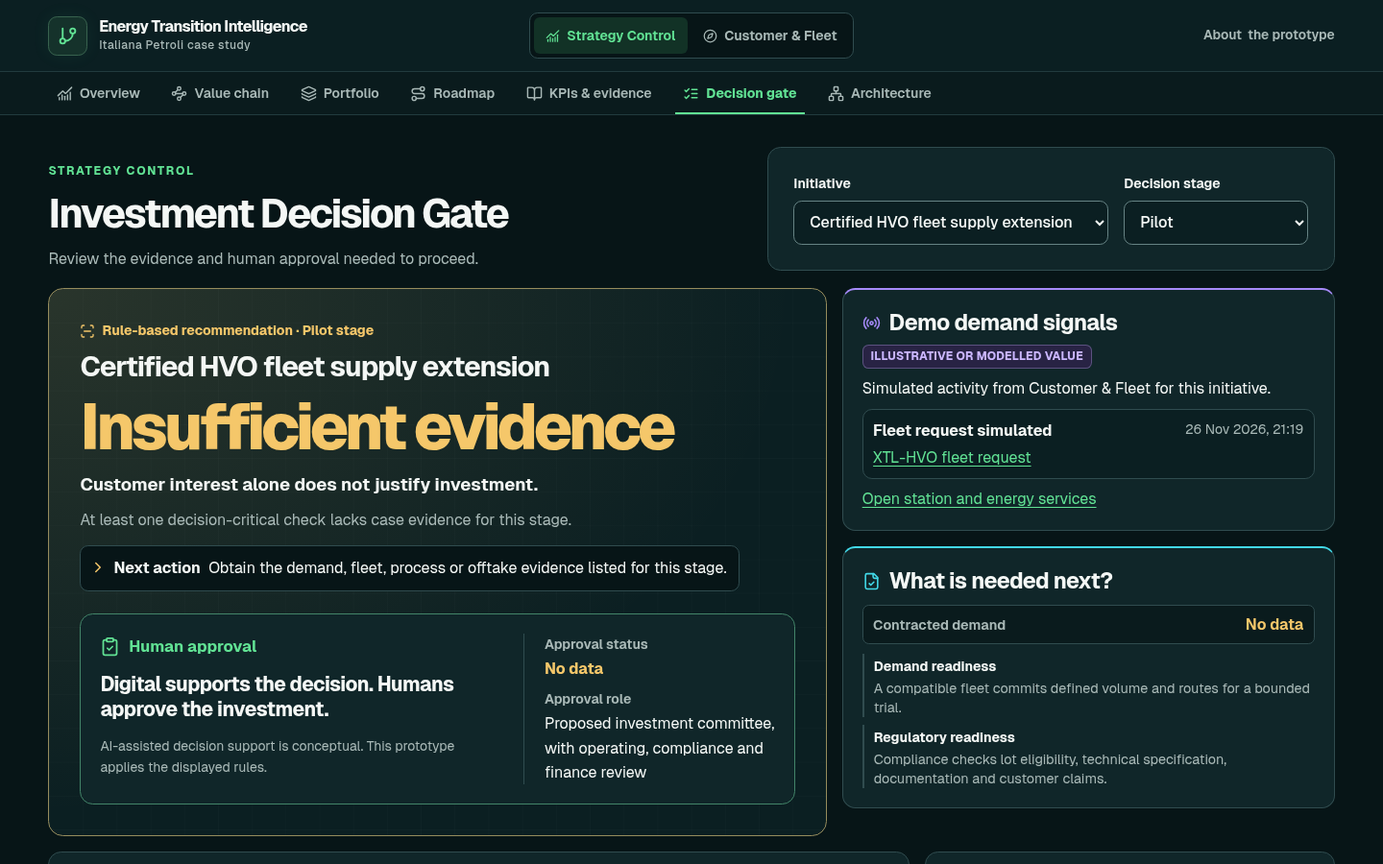
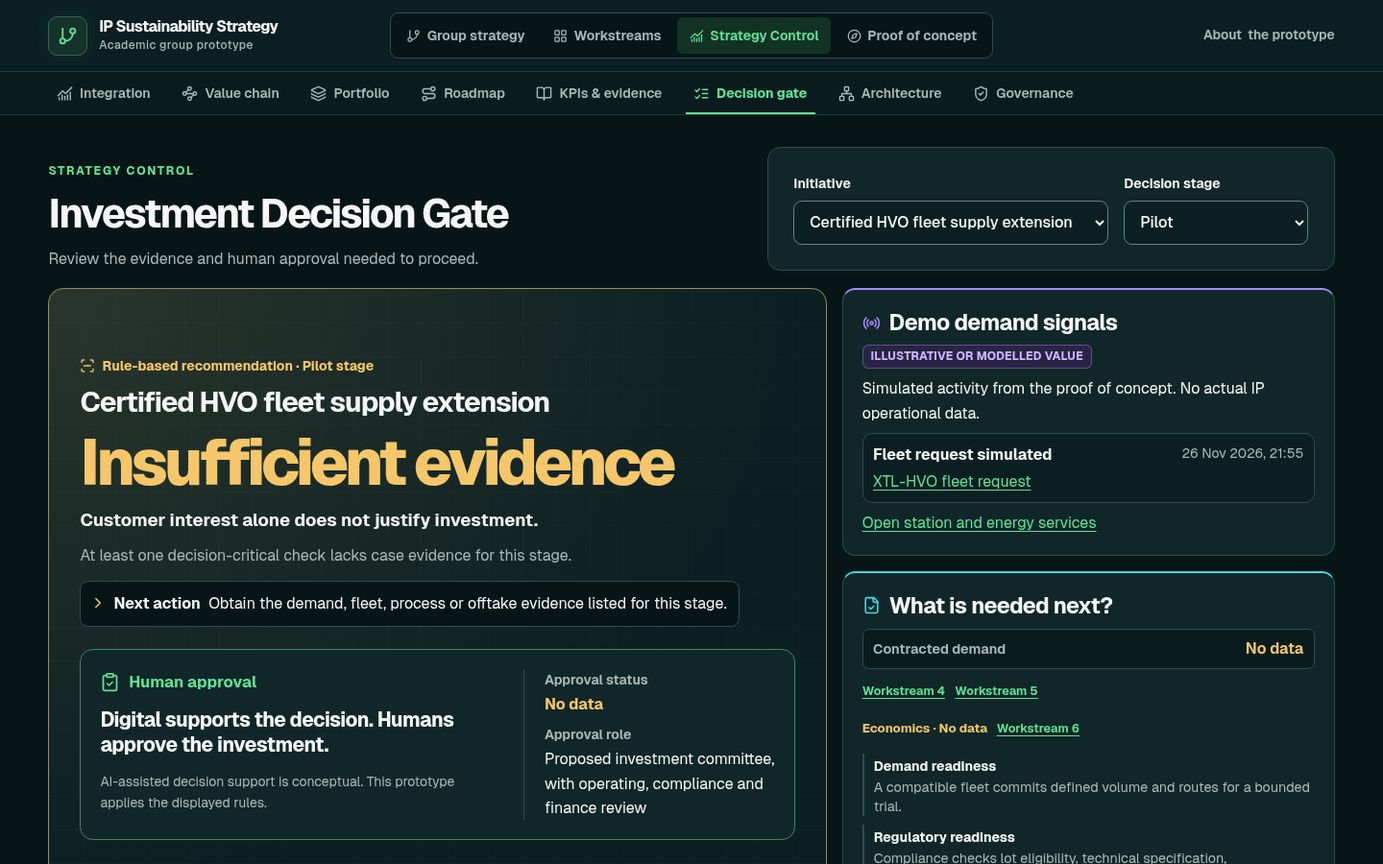
Document group readiness and showcase the deployed platform

diff --git a/README.md b/README.md
@@ -1,227 +1,149 @@
-# Energy Transition Intelligence
+# IP Long-Term Sustainability Strategy
 
-**Integrated Refining & Multi-Energy Mobility Strategy**
+**Refining × Distribution × Multi-Energy Mobility**
 
-[![LIVE DEMO](https://img.shields.io/badge/LIVE_DEMO-OPEN-176947?style=flat-square&logo=github&logoColor=white)](https://queenkm.github.io/ip-transition-strategy/)
-![REACT](https://img.shields.io/badge/REACT-19-17637A?style=flat-square&logo=react&logoColor=white)
-![TYPESCRIPT](https://img.shields.io/badge/TYPESCRIPT-5-3178C6?style=flat-square&logo=typescript&logoColor=white)
-![VITE](https://img.shields.io/badge/VITE-6-7963DA?style=flat-square&logo=vite&logoColor=white)
-[![GITHUB PAGES](https://img.shields.io/badge/GITHUB_PAGES-STATIC-293E40?style=flat-square&logo=githubpages&logoColor=white)](.github/workflows/deploy.yml)
-[![Pages deployment workflow status](https://github.com/QueenKM/ip-transition-strategy/actions/workflows/deploy.yml/badge.svg?branch=main)](https://github.com/QueenKM/ip-transition-strategy/actions/workflows/deploy.yml)
+Interactive Group Strategy & Decision-Support Prototype
 
-An independent university case study for Italiana Petroli. It makes the case for more efficient refining, selective station upgrades and capital decisions grounded in customer and operating evidence.
+[![Complete strategy home with refining, distribution, technology and roadmap views](docs/readme-hero.png)](https://queenkm.github.io/ip-transition-strategy/)
 
-**[→ Explore the Live Strategy Prototype](https://queenkm.github.io/ip-transition-strategy/#/strategy)**
+## Live demo
 
-[![Energy Transition Intelligence showcase banner](docs/readme-hero.png)](https://queenkm.github.io/ip-transition-strategy/#/strategy)
-
-### Recommended demo path
-
-1. Read the thesis and four pillars on the [Executive Strategy Dashboard](https://queenkm.github.io/ip-transition-strategy/#/strategy).
-2. Trace the sequence of pilots and investment conditions in the [Integrated Roadmap](https://queenkm.github.io/ip-transition-strategy/#/strategy/roadmap).
-3. Find **XTL-HVO fleet request** at the fictional corridor forecourt in [Station Explorer](https://queenkm.github.io/ip-transition-strategy/#/mobility/explore).
-4. Choose **Open fleet demo**, then **Simulate fleet request** and **View strategic impact** in the [Fleet Journey](https://queenkm.github.io/ip-transition-strategy/#/mobility/journey?service=corridor-demo-hvo).
-5. Find the demo demand signal and open the missing checks in the [Investment Decision Gate](https://queenkm.github.io/ip-transition-strategy/#/strategy/gate?initiative=road-hvo-pilot&stage=pilot).
-
-For the electricity pathway, see the [Integrated Value Chain](https://queenkm.github.io/ip-transition-strategy/#/strategy/value-chain) and try the [simulated EV reservation and payment](https://queenkm.github.io/ip-transition-strategy/#/mobility/journey?service=corridor-demo-ev).
+**[Explore the group strategy](https://queenkm.github.io/ip-transition-strategy/)** · [Team input readiness](https://queenkm.github.io/ip-transition-strategy/#/workstreams) · [GitHub Pages workflow](.github/workflows/deploy.yml)
 
 ## The challenge
 
-How could IP respond to regulation and changing transport demand while investing across refineries, stations and customer services? The university brief asks for a strategy that connects the two businesses and justifies technology, timing and investment choices. [Challenge brief and assessment criteria](https://queenkm.github.io/ip-transition-strategy/#/strategy/evidence?tab=evidence&focus=E01)
+Develop a long-term sustainability strategy for Italiana Petroli in Italy. The university brief asks the group to connect refining and distribution and explain technology choices, timing, demand and investment constraints.
 
-**Recommendation.** IP should improve refinery efficiency and qualify fuel supply for specific markets, add charging and other services where local infrastructure and demand support them, and use commercial and operating evidence from both pathways to guide the next investment.
-
-## Live Product
-
-**Strategy Control** covers the case, portfolio, roadmap, KPIs and investment review. **Customer & Fleet** lets a visitor explore eligible offers and simulate a service request. Both views link back to the same initiative and evidence records.
-
-[![Executive Strategy Dashboard showing four pillars, case evidence and the linked mobility view](docs/screenshots/dashboard.png)](https://queenkm.github.io/ip-transition-strategy/#/strategy)
-
-### Four connected contributions
-
-| Contribution | How the prototype demonstrates it |
-| --- | --- |
-| **Efficient refining and qualified product supply** | Connects site efficiency, feedstock qualification and product traceability to demand from compatible fleets and other fuel buyers. |
-| **Selective station transformation** | Compares forecourt and depot options using site rights, power connections, utilisation and service economics. |
-| **Customer and fleet services** | Demonstrates service discovery, XTL-HVO compatibility, a fleet request and an EV reservation and payment concept. |
-| **Evidence-led investment** | Links operational and commercial evidence to portfolio priorities and decisions across the 0–3, 3–7 and 7–15+ year horizons. |
-
-## Integrated value chain
-
-Certified fuel supply and grid-supplied charging follow different physical routes. Station and fleet services return demand and operating evidence to the same investment gate.
-
-[![Integrated Value Chain showing the liquid-fuel and electricity pathways](docs/screenshots/value-chain.png)](https://queenkm.github.io/ip-transition-strategy/#/strategy/value-chain)
-
-## Investment Decision Gate
-
-For the XTL-HVO pilot, the simulated request appears under **Demo demand signals**. The case recommendation remains **Insufficient evidence** while required inputs such as demand commitments, certified supply and economics are missing. The gate shows which checks drive the recommendation, who owns the follow-up and which human role can approve investment.
-
-[![Investment Decision Gate showing Insufficient evidence, human approval and the illustrative demand signal](docs/screenshots/decision-gate.png)](https://queenkm.github.io/ip-transition-strategy/#/strategy/gate?initiative=road-hvo-pilot&stage=pilot)
-
-**Customer signal ≠ Investment decision.** Progression depends on applicable fuel rules, committed fleet volumes, eligible batches, confirmed vehicle and site compatibility, viable delivered economics and human approval. Scale also requires measured pilot performance.
-
-## Product gallery
-
-<table>
-  <tr>
-    <td width="50%">
-      <a href="https://queenkm.github.io/ip-transition-strategy/#/strategy/portfolio"><img src="docs/screenshots/portfolio.png" alt="Technology Portfolio with qualitative priorities and evidence readiness"></a>
-      <strong>Technology Portfolio</strong><br>
-      Technology maturity, priorities and open dependencies.
-    </td>
-    <td width="50%">
-      <a href="https://queenkm.github.io/ip-transition-strategy/#/strategy/roadmap"><img src="docs/screenshots/roadmap.png" alt="Roadmap showing refining, distribution and digital work across three time horizons"></a>
-      <strong>Integrated Roadmap</strong><br>
-      Aligned horizons, investment conditions and review points.
-    </td>
-  </tr>
-  <tr>
-    <td width="50%">
-      <a href="https://queenkm.github.io/ip-transition-strategy/#/mobility/explore"><img src="docs/screenshots/station-explorer.png" alt="Station Explorer with fictional sites and energy-service status filters"></a>
-      <strong>Station Explorer</strong><br>
-      Fictional locations with carrier, audience and status filters.
-    </td>
-    <td width="50%">
-      <a href="https://queenkm.github.io/ip-transition-strategy/#/mobility/journey?service=corridor-demo-hvo"><img src="docs/screenshots/fleet-journey.png" alt="Fleet Journey with an illustrative XTL-HVO request and invoice preview"></a>
-      <strong>Fleet Journey</strong><br>
-      Vehicle fit, simulated request and a linked demand signal.
-    </td>
-  </tr>
-  <tr>
-    <td width="50%">
-      <a href="https://queenkm.github.io/ip-transition-strategy/#/strategy/evidence"><img src="docs/screenshots/evidence-dashboard.png" alt="KPI and Evidence Dashboard showing data boundaries, provenance and missing inputs"></a>
-      <strong>KPIs &amp; Evidence</strong><br>
-      Measurement scope, source records and the team input register.
-    </td>
-    <td width="50%">
-      <a href="https://queenkm.github.io/ip-transition-strategy/#/strategy/architecture"><img src="docs/screenshots/architecture.png" alt="Architecture and Data Flow showing six layers from physical energy to human governance"></a>
-      <strong>Architecture</strong><br>
-      Documented capabilities and proposed data connections.
-    </td>
-  </tr>
-</table>
-
-## How the platform works
+## Complete strategy
 
 ```mermaid
 flowchart TD
-    A["Regulation and demand"] --> B["Refining and qualified fuels"]
-    A --> C["Electricity and grid access"]
-    B --> D["Fuel logistics and eligible outlets"]
-    C --> E["Site and charging operations"]
-    D --> F["Customer and fleet services"]
-    E --> F
-    F --> G["Demand and operating evidence"]
-    G --> H["Investment gate and human approval"]
+  A["Context"] --> B["Refining"]
+  B --> C["Distribution"]
+  C --> D["Technology and economics"]
+  D --> E["Integrated strategy"]
+  E --> F["Adaptive roadmap"]
+  F --> G["Digital proof of concept"]
+  G --> H["Evidence-led decisions"]
 ```
 
-## Evidence and accountability
+The platform gives all eight workstreams a place in the group solution. Workstream 7 links upstream analyses to strategic pillars, an adaptive roadmap, governance, measurement and a digital proof of concept. Workstream 8 holds the group-approved recommendation and presentation storyline once validated.
 
-![Verified fact](https://img.shields.io/badge/VERIFIED_FACT-176947?style=flat-square)
-![Team input](https://img.shields.io/badge/TEAM_INPUT-17637A?style=flat-square)
-![Strategic recommendation](https://img.shields.io/badge/STRATEGIC_RECOMMENDATION-2B5574?style=flat-square)
-![Assumption](https://img.shields.io/badge/ASSUMPTION-775222?style=flat-square)
-![Illustrative or modelled value](https://img.shields.io/badge/ILLUSTRATIVE_OR_MODELLED_VALUE-584589?style=flat-square)
-![No data](https://img.shields.io/badge/NO_DATA-42595A?style=flat-square)
+## Workstreams 1–8
 
-| Evidence class | Meaning |
+| Workstream | Scope | Input status |
+| --- | --- | --- |
+| [W1](https://queenkm.github.io/ip-transition-strategy/#/workstreams/w1) | Regulation, Market & Demand | Awaiting team input |
+| [W2](https://queenkm.github.io/ip-transition-strategy/#/workstreams/w2) | Refining Current State & Benchmarking | Awaiting team input |
+| [W3](https://queenkm.github.io/ip-transition-strategy/#/workstreams/w3) | Refining Solutions | Awaiting team input |
+| [W4](https://queenkm.github.io/ip-transition-strategy/#/workstreams/w4) | Distribution Current State & Benchmarking | Awaiting team input |
+| [W5](https://queenkm.github.io/ip-transition-strategy/#/workstreams/w5) | Distribution Solutions | Awaiting team input |
+| [W6](https://queenkm.github.io/ip-transition-strategy/#/workstreams/w6) | Economics, Technology Maturity & Risks | Awaiting team input |
+| [W7](https://queenkm.github.io/ip-transition-strategy/#/workstreams/w7) | Integrated Strategy, Roadmap & Digital Decision Support | In development / available |
+| [W8](https://queenkm.github.io/ip-transition-strategy/#/workstreams/w8) | Executive Summary & Presentation | Awaiting team input |
+
+## Strategy integration status
+
+Each area identifies what is available, who must supply the next input and which decisions depend on it. Final team conclusions appear after validation. Unavailable values display **No data**, and public evidence has its own scope and provenance. [Submission and validation guide](docs/TEAM_INPUT_GUIDE.md)
+
+## Context
+
+Public and lecture references describe the regulation, market and competition relevant to the case. W1 is responsible for the applicable duties, demand scenarios, competitive findings and implications for IP.
+
+## Refining
+
+W2 establishes the refinery asset boundary, comparable baselines and constraints. W3 will assess the options and supply priorities, timing and rationale. Company disclosures and lecture context appear separately from both team submissions. [Refining context](https://queenkm.github.io/ip-transition-strategy/#/workstreams/w2) · [Refining solutions](https://queenkm.github.io/ip-transition-strategy/#/workstreams/w3)
+
+## Distribution
+
+W4 establishes the relevant network, customer segments and site constraints. W5 will evaluate charging, fuels, station formats and customer and fleet services. [Distribution context](https://queenkm.github.io/ip-transition-strategy/#/workstreams/w4) · [Distribution solutions](https://queenkm.github.io/ip-transition-strategy/#/workstreams/w5)
+
+## Technology & economics
+
+The technology portfolio separates published context, draft assessments and validated team inputs. W6 owns the financial case, technology readiness and downside analysis. CAPEX, OPEX, ROI, NPV, payback, margin, hurdle rate and demand sensitivity currently show **No data**. [Technology portfolio](https://queenkm.github.io/ip-transition-strategy/#/strategy/portfolio) · [Economics workstream](https://queenkm.github.io/ip-transition-strategy/#/workstreams/w6)
+
+## Integrated roadmap
+
+The 0–3, 3–7 and 7–15+ year horizons provide a framework for deciding when to establish a case, replicate proven pilots and reconsider the portfolio. Validated W3, W5 and W6 inputs are needed to convert draft actions into case-specific decisions. [Integrated roadmap](https://queenkm.github.io/ip-transition-strategy/#/strategy/roadmap)
+
+## Digital proof of concept
+
+1. Open **Station Explorer** and find the fictional **XTL-HVO fleet request** at Corridor forecourt.
+2. Choose **Open fleet demo** and then **Simulate fleet request**.
+3. Select **View strategic impact** to see the demand signal alongside the investment evidence.
+
+The service design shows how a recommendation could reach a customer and create a signal for review. Locations, requests and service states are illustrative. [Start the demo](https://queenkm.github.io/ip-transition-strategy/#/mobility/explore)
+
+## Decision gate
+
+The simulated request appears as **Illustrative or modelled value**. Contracted demand and approval show **No data**, and the recommendation remains **Insufficient evidence**. The gate names the workstreams responsible for missing demand, regulatory, infrastructure and economic inputs. An accountable human approves any investment. [Investment decision gate](https://queenkm.github.io/ip-transition-strategy/#/strategy/gate?initiative=road-hvo-pilot)
+
+## Evidence by design
+
+| Classification | Meaning |
 | --- | --- |
-| **Verified fact** | A cited claim within the source’s measurement or reporting boundary. |
-| **Team input** | A contribution attributed to a workstream. |
-| **Strategic recommendation** | A proposed action, priority or decision rule. |
-| **Assumption** | A premise requiring confirmation. |
-| **Illustrative or modelled value** | A fictional scenario or model output used for demonstration. |
-| **No data** | A reliable value for the stated scope is unavailable. |
+| **Verified fact** | Supported within the cited source’s scope and reporting period. |
+| **Team input** | Attributed to a named workstream with submission and review status. |
+| **Strategic recommendation** | Proposed action, priority or decision rule. |
+| **Assumption** | Premise that requires confirmation. |
+| **Illustrative or modelled value** | Fictional or modelled demonstration data. |
+| **No data** | Reliable evidence for the stated measure or conclusion is unavailable. |
 
-The evidence register records source, scope, period and outstanding inputs. For example, IP’s report lists 376 active IPlanet charging points for FY2025. This historical network count is separate from candidate-site utilisation and live availability. [IP Sustainability Report 2025, Table 23](https://www.italianapetroli.it/wp-content/uploads/2026/05/Bilancio-di-Sostenibilita-2025.pdf) · [Evidence register](https://queenkm.github.io/ip-transition-strategy/#/strategy/evidence?tab=evidence)
+[Evidence register](https://queenkm.github.io/ip-transition-strategy/#/strategy/evidence?tab=evidence) · [Source records](src/data/sources.ts)
 
-An **AI-assisted strategy layer** is a future concept for summarising cited evidence and highlighting gaps. The app currently applies inspectable TypeScript rules. Approval belongs to the designated human decision owner.
+## Interface gallery
+
+[![Group strategy home with the full strategy flow and eight workstreams](docs/screenshots/strategy-home.png)](https://queenkm.github.io/ip-transition-strategy/)
+
+| Strategy and readiness | Team evidence and operating context |
+| --- | --- |
+| [![Workstream readiness](docs/screenshots/workstream-readiness.png)](docs/screenshots/workstream-readiness.png) **Workstream readiness** | [![Context with public and team evidence separated](docs/screenshots/context.png)](docs/screenshots/context.png) **Regulation, market and demand** |
+| [![Refining with input requirements](docs/screenshots/refining.png)](docs/screenshots/refining.png) **Refining** | [![Distribution with input requirements](docs/screenshots/distribution.png)](docs/screenshots/distribution.png) **Distribution** |
+| [![Technology portfolio](docs/screenshots/technology-portfolio.png)](docs/screenshots/technology-portfolio.png) **Technology portfolio** | [![Integrated strategy](docs/screenshots/integrated-strategy.png)](docs/screenshots/integrated-strategy.png) **Part 7 integration framework** |
+| [![Integrated roadmap](docs/screenshots/roadmap.png)](docs/screenshots/roadmap.png) **Integrated roadmap** | [![Station explorer with fictional services](docs/screenshots/station-explorer.png)](docs/screenshots/station-explorer.png) **Station explorer** |
+| [![Fleet journey after a fictional request](docs/screenshots/fleet-journey.png)](docs/screenshots/fleet-journey.png) **Fleet journey** | [![Decision gate after a fictional request](docs/screenshots/decision-gate.png)](docs/screenshots/decision-gate.png) **Decision gate** |
+| [![KPI and evidence dashboard](docs/screenshots/evidence.png)](docs/screenshots/evidence.png) **KPI and evidence dashboard** | [![Team input register](docs/screenshots/team-inputs.png)](docs/screenshots/team-inputs.png) **Team input register** |
+| [![Conceptual architecture and data flow](docs/screenshots/architecture.png)](docs/screenshots/architecture.png) **Architecture** | [![Integrated value chain](docs/screenshots/value-chain.png)](docs/screenshots/value-chain.png) **Integrated value chain** |
 
 ## Architecture
 
-The case architecture proposes permissioned data flows from operating systems to customer and fleet channels and onward to management. The static app demonstrates these flows with local records and session-only demo events.
-
 ```mermaid
 flowchart TD
-    Browser["Browser · GitHub Pages"] --> Views["React views"]
-    Views --> Model["Local TypeScript strategy and evidence records"]
-    Model --> Rules["Rule-based investment gate"]
-    Rules --> Human["Human decision owner"]
-    Views --> Session["Illustrative browser session events"]
-    Session --> Views
+  A["Eight typed workstream modules"] --> B["Source, evidence and input registers"]
+  B --> C["Group strategy, portfolio and roadmap"]
+  B --> D["Rule-based stage gate"]
+  D --> E["Human investment approval"]
+  F["Browser-session illustration"] --> G["Separate demo demand signal"]
+  G --> H["Gate display"]
+  D --> H
 ```
 
-```text
-Physical energy          Liquid fuel supply     Grid electricity
-                               │                       │
-Operations               Refinery and logistics  Station and charging systems
-                                      │          │
-Customer and fleet             Customer channels and fleet portal
-                                              │
-Data and analytics             Aggregate demand, KPIs and provenance
-                                              │
-Strategy control              Portfolio, roadmap and investment gate
-                                              │
-Human governance              Decision, rationale and next actions
-                                              └──→ Refining and distribution owners
-```
+The React prototype uses static TypeScript records and browser-session demo events. The system landscape describes documented, required and future connections. Conceptual AI assistance covers evidence synthesis, scenario and portfolio comparison, and gap detection. The running gate uses transparent rules. [System landscape](https://queenkm.github.io/ip-transition-strategy/#/strategy/architecture) · [Governance](https://queenkm.github.io/ip-transition-strategy/#/strategy/governance)
 
-The [architecture register](https://queenkm.github.io/ip-transition-strategy/#/strategy/architecture) labels each connection **Existing**, **Required** or **Future** and links the evidence or proposed design.
-
-## Build and maintain
+## Technology stack
 
 ![React](https://img.shields.io/badge/React-17637A?style=flat-square&logo=react&logoColor=white)
 ![TypeScript](https://img.shields.io/badge/TypeScript-234E75?style=flat-square&logo=typescript&logoColor=white)
 ![Vite](https://img.shields.io/badge/Vite-584589?style=flat-square&logo=vite&logoColor=white)
 ![React Router](https://img.shields.io/badge/React_Router-2B5574?style=flat-square&logo=reactrouter&logoColor=white)
-![Lucide](https://img.shields.io/badge/Lucide-17637A?style=flat-square&logo=lucide&logoColor=white)
-![GitHub Actions](https://img.shields.io/badge/GitHub_Actions-234E75?style=flat-square&logo=githubactions&logoColor=white)
 ![GitHub Pages](https://img.shields.io/badge/GitHub_Pages-293E40?style=flat-square&logo=githubpages&logoColor=white)
 
-CSS Modules style the interface. GitHub Actions validates and publishes the static app to GitHub Pages.
+CSS Modules and Lucide support the interface. Hash-based routes and relative build assets support project-level GitHub Pages URLs.
 
-```text
-src/
-  app/          Route definitions and application shell entry
-  components/   Shared view components and evidence controls
-  data/         Strategy, services, KPIs, sources and team inputs
-  hooks/        Browser-session demo activity
-  models/       TypeScript data contracts
-  pages/        Strategy Control and Customer & Fleet screens
-  styles/       Shared typography, theme and styling
-  utils/        Evidence validation and gate rules
-docs/           Screenshots and showcase assets
-```
+## Run locally
 
-Use Node.js 22.12 or later. Open the address printed by Vite.
+Use Node.js 22.12 or later.
 
 ```sh
 npm install
 npm run dev
-```
-
-Validate the records and production bundle before deploying.
-
-```sh
+npm run validate
 npm run lint
-npm run validate:data
 npm run build
-npm run preview
 ```
 
-For content updates, keep record IDs stable. Add a source and evidence ID with each new claim, update the relevant input request in `src/data/team.ts`, and keep unavailable values as `null`. Enter stage-specific findings and approvals in `recordedEvidence` in [src/data/gates.ts](src/data/gates.ts). **Reset demo** clears session activity.
+Pushes to `main` run the existing deployment workflow. Manage the deployment source in **Settings → Pages → Build and deployment → Source → GitHub Actions**. Integrate submissions in `src/data/workstreams/` and update the shared records they support. [Team input guide](docs/TEAM_INPUT_GUIDE.md)
 
-### Deploy to GitHub Pages
+## Academic disclaimer
 
-1. Push the project to the repository’s `main` branch. For a different deployment branch, update [the workflow](.github/workflows/deploy.yml).
-2. Set **Settings → Pages → Build and deployment → Source** to **GitHub Actions**.
-3. Under **Actions**, run **Deploy prototype to GitHub Pages** if needed. Subsequent pushes to `main` deploy automatically.
-4. Open `https://USERNAME.github.io/REPOSITORY_NAME/`, replacing `USERNAME` with the account or organisation and `REPOSITORY_NAME` with the repository name. Refresh a route such as `/REPOSITORY_NAME/#/strategy/gate?initiative=road-hvo-pilot` to verify the deployment.
-
-Vite uses a relative asset base. React Router’s hash paths keep refreshes and direct links on the same static entry page.
-
-## Academic context and asset notes
-
-This independent proof of concept supports **Part 7 — Integrated Refining and Distribution Strategy, Digital Platform and Implementation Roadmap** of a university group challenge. It has no affiliation with or endorsement from Italiana Petroli or its partners. Locations, requests, reservations and payments in the demo are fictional. The screenshots show the running prototype.
-
-Public source links and lecture references are maintained in [the source register](src/data/sources.ts). The [social preview image](docs/social-preview.png) and header banner are showcase artwork. No repository licence has been declared. The bundled Geist font retains [its own licence](src/assets/geist-license.txt).
+This is an independent university proof of concept. Italiana Petroli and its partners have not endorsed it. Demo locations, service availability, payments and requests are fictional and represent no actual IP operational data. Public evidence remains within the scope cited in the evidence register. The bundled Geist font retains its own licence. [Font licence](src/assets/geist-license.txt)

diff --git a/docs/TEAM_INPUT_GUIDE.md b/docs/TEAM_INPUT_GUIDE.md
@@ -1,0 +1,42 @@
+# Team input integration guide
+
+Use this process when a workstream sends its findings. The eight workstream pages, home cards and readiness view use the same records in `src/data/workstreams/`. Shared KPI, portfolio, roadmap and gate records change when the workstream evidence supports their specific scope.
+
+## Record and validate a submission
+
+1. Open the matching workstream file in the table below. Set the responsible role in `owner`.
+2. Record the submission in `submission`. Add `dateReceived`, `lastUpdated`, `summary`, `keyFindings`, `recommendations`, `sources` and `evidenceIds`. Leave `lastValidated: null` while review is pending. The data model derives `inputReceived`, `validated`, `status` and `evidenceType` from the submission. An outstanding review appears as **Team input awaiting validation**.
+3. Add source metadata to `src/data/sources.ts`. Add evidence items with a stable ID, reporting period, scope and source locator in `src/data/evidence.ts`. Use `TEAM INPUT` for submitted analysis and `VERIFIED FACT` for separately substantiated observations within their reporting boundary. Use `ASSUMPTION` for unsupported premises, and keep `NO DATA` with a null value where evidence is unavailable.
+4. Add case findings, priority, timing and rationale to the corresponding topic fields. Use `findingEvidenceIds` for evidence supporting team findings and `evidenceIds` within a topic for public or lecture context. Add `affectedRecords` references by stable ID, using the appropriate kinds such as `initiative`, `technology`, `kpi` and `phase`. The workstream-level lists are derived from these references. Keep the existing `wsX-input` request IDs.
+5. Check the source, definition, scope, unit, period and evidence class. Enter the actual review date in `submission.lastValidated` once the review is complete. Update `unresolvedQuestions` and keep outstanding topic or metric values null. If you supplied a manual `missingData` list, revise it to reflect the evidence you just validated.
+6. Update the linked shared data only where a supported conclusion changes it. A validated submission does not populate `gates.ts`, approve investment or turn an illustrative request into contracted demand. Each affected gate stage requires its own scoped finding and evidence. Record case evidence in `recordedEvidence` in `src/data/gates.ts`, and record approval only with a documented authorised human decision.
+7. Run the checks below, then open the workstream, home, readiness register and affected screens. Check that any value still pending displays **No data**. Refresh a linked route and repeat the demo if investment records changed.
+8. Commit as `Integrate Workstream X [scope]`, using the examples in the table. Keep internal or personal information out of this public repository.
+
+```sh
+npm run validate
+npm run lint
+npm run build
+```
+
+## Workstream-specific updates
+
+| Workstream file | What to integrate | Recheck | Example commit |
+| --- | --- | --- | --- |
+| [w1-context.ts](../src/data/workstreams/w1-context.ts) | Applicable regulation, market and competitor conclusions, demand scenarios, implications for IP | Context, portfolio, regulatory and demand gate checks | `Integrate Workstream 1 regulation and market analysis` |
+| [w2-refining-context.ts](../src/data/workstreams/w2-refining-context.ts) | Asset boundaries, capacity, metered energy and emissions, benchmark, constraints and residual gaps | Refining context, KPI dashboard, refinery gates | `Integrate Workstream 2 refining baseline` |
+| [w3-refining-solutions.ts](../src/data/workstreams/w3-refining-solutions.ts) | Scoped technical shortlist, priorities, timing, rationale, certification and unit fit | Refining, portfolio, roadmap, decision gate | `Integrate Workstream 3 refining analysis` |
+| [w4-distribution-context.ts](../src/data/workstreams/w4-distribution-context.ts) | Network boundary, station archetypes, local competitors, customers, grid and site constraints | Distribution, KPI dashboard, demand and site checks | `Integrate Workstream 4 distribution baseline` |
+| [w5-distribution-solutions.ts](../src/data/workstreams/w5-distribution-solutions.ts) | Proposed charging, fuel, station or customer services with site or fleet eligibility and scale criteria | Distribution, portfolio, roadmap, demo journey, decision gate | `Integrate Workstream 5 distribution solutions` |
+| [w6-economics.ts](../src/data/workstreams/w6-economics.ts) | CAPEX, OPEX, ROI, NPV, payback, margin, hurdle rate, demand sensitivity, maturity and risks | Economics workstream, portfolio comparison, roadmap, economics gate | `Integrate Workstream 6 investment and risk analysis` |
+| [w7-integrated-strategy.ts](../src/data/workstreams/w7-integrated-strategy.ts) | Integrated timing, reconciled dependencies, KPI definitions, data rights and governance | Integrated strategy, value chain, roadmap, governance, evidence and demo | `Integrate Workstream 7 cross-workstream strategy` |
+| [w8-executive.ts](../src/data/workstreams/w8-executive.ts) | Group-approved recommendation, executive summary, storyline, allocation, terminology and final conclusion | Executive workstream, home, approved presentation narrative | `Integrate Workstream 8 executive storyline` |
+
+For W3, where a validated recommendation affects the near-term roadmap, add `{ kind: 'phase', id: 'near-term' }` to the topic along with the relevant initiative and technology references. The three phase IDs are `near-term`, `medium-term` and `long-term`. For W6, a portfolio-specific finding needs the affected technology ID, and financial metrics retain their own `value`, evidence class, scope and unit. For W7, a portfolio timing conclusion needs its relevant technology ID and validated case input from the contributing technical and economics workstreams.
+
+## Shared records
+
+- Use `sources.ts` and `evidence.ts` for provenance.
+- Use `technologies.ts`, `initiatives.ts` and `roadmap.ts` to revise the integrated framework after review.
+- Use `kpis.ts`, `risks.ts`, `gates.ts` and `governance.ts` for measurement, risks, case decisions and proposed responsibilities.
+- Use `demo.ts` and `services.ts` for clearly identified illustrative scenarios. Their browser-session events stay separate from case evidence.
